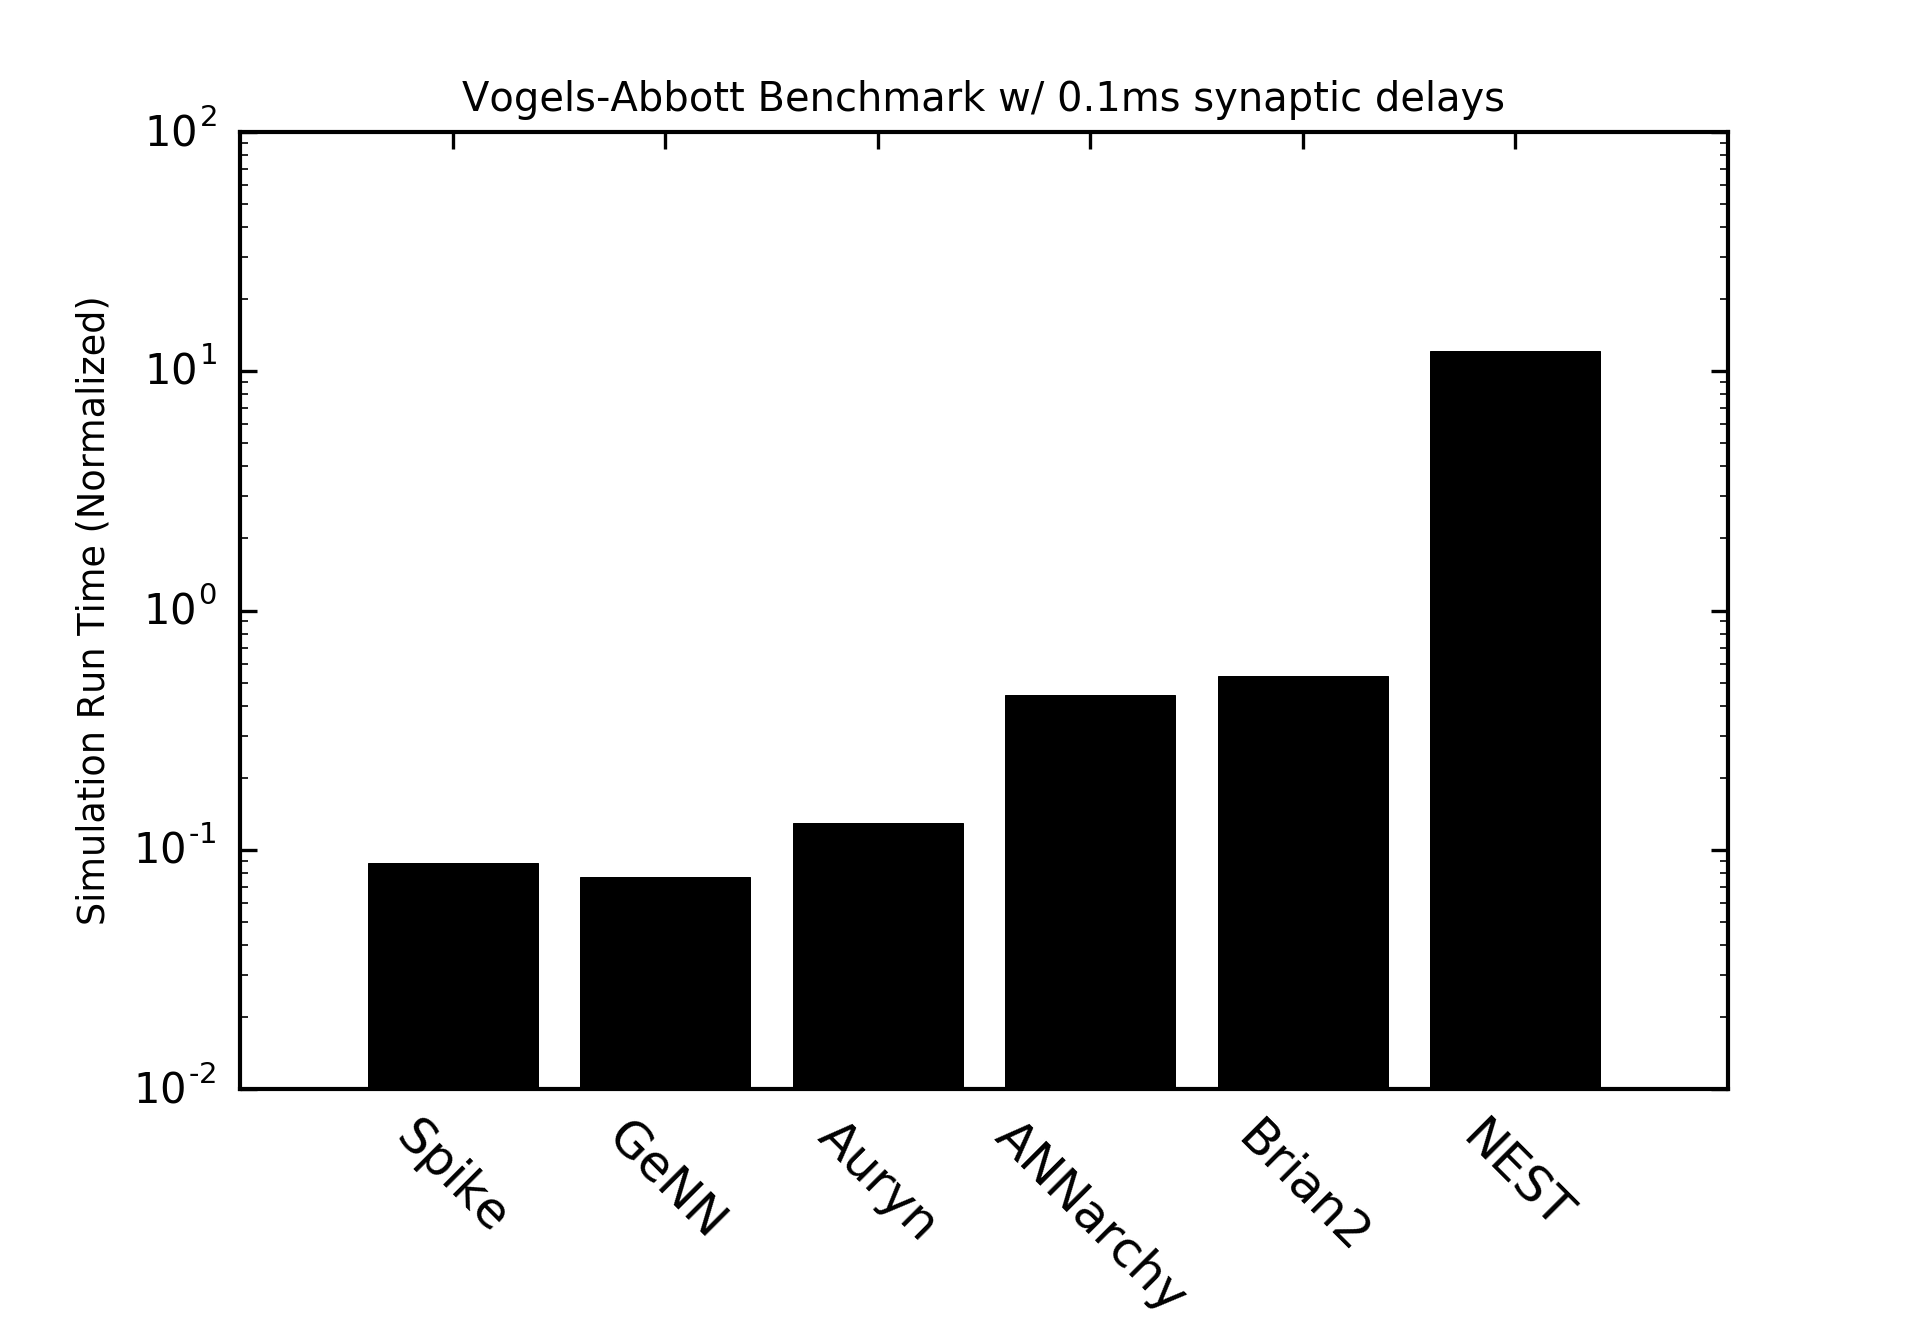
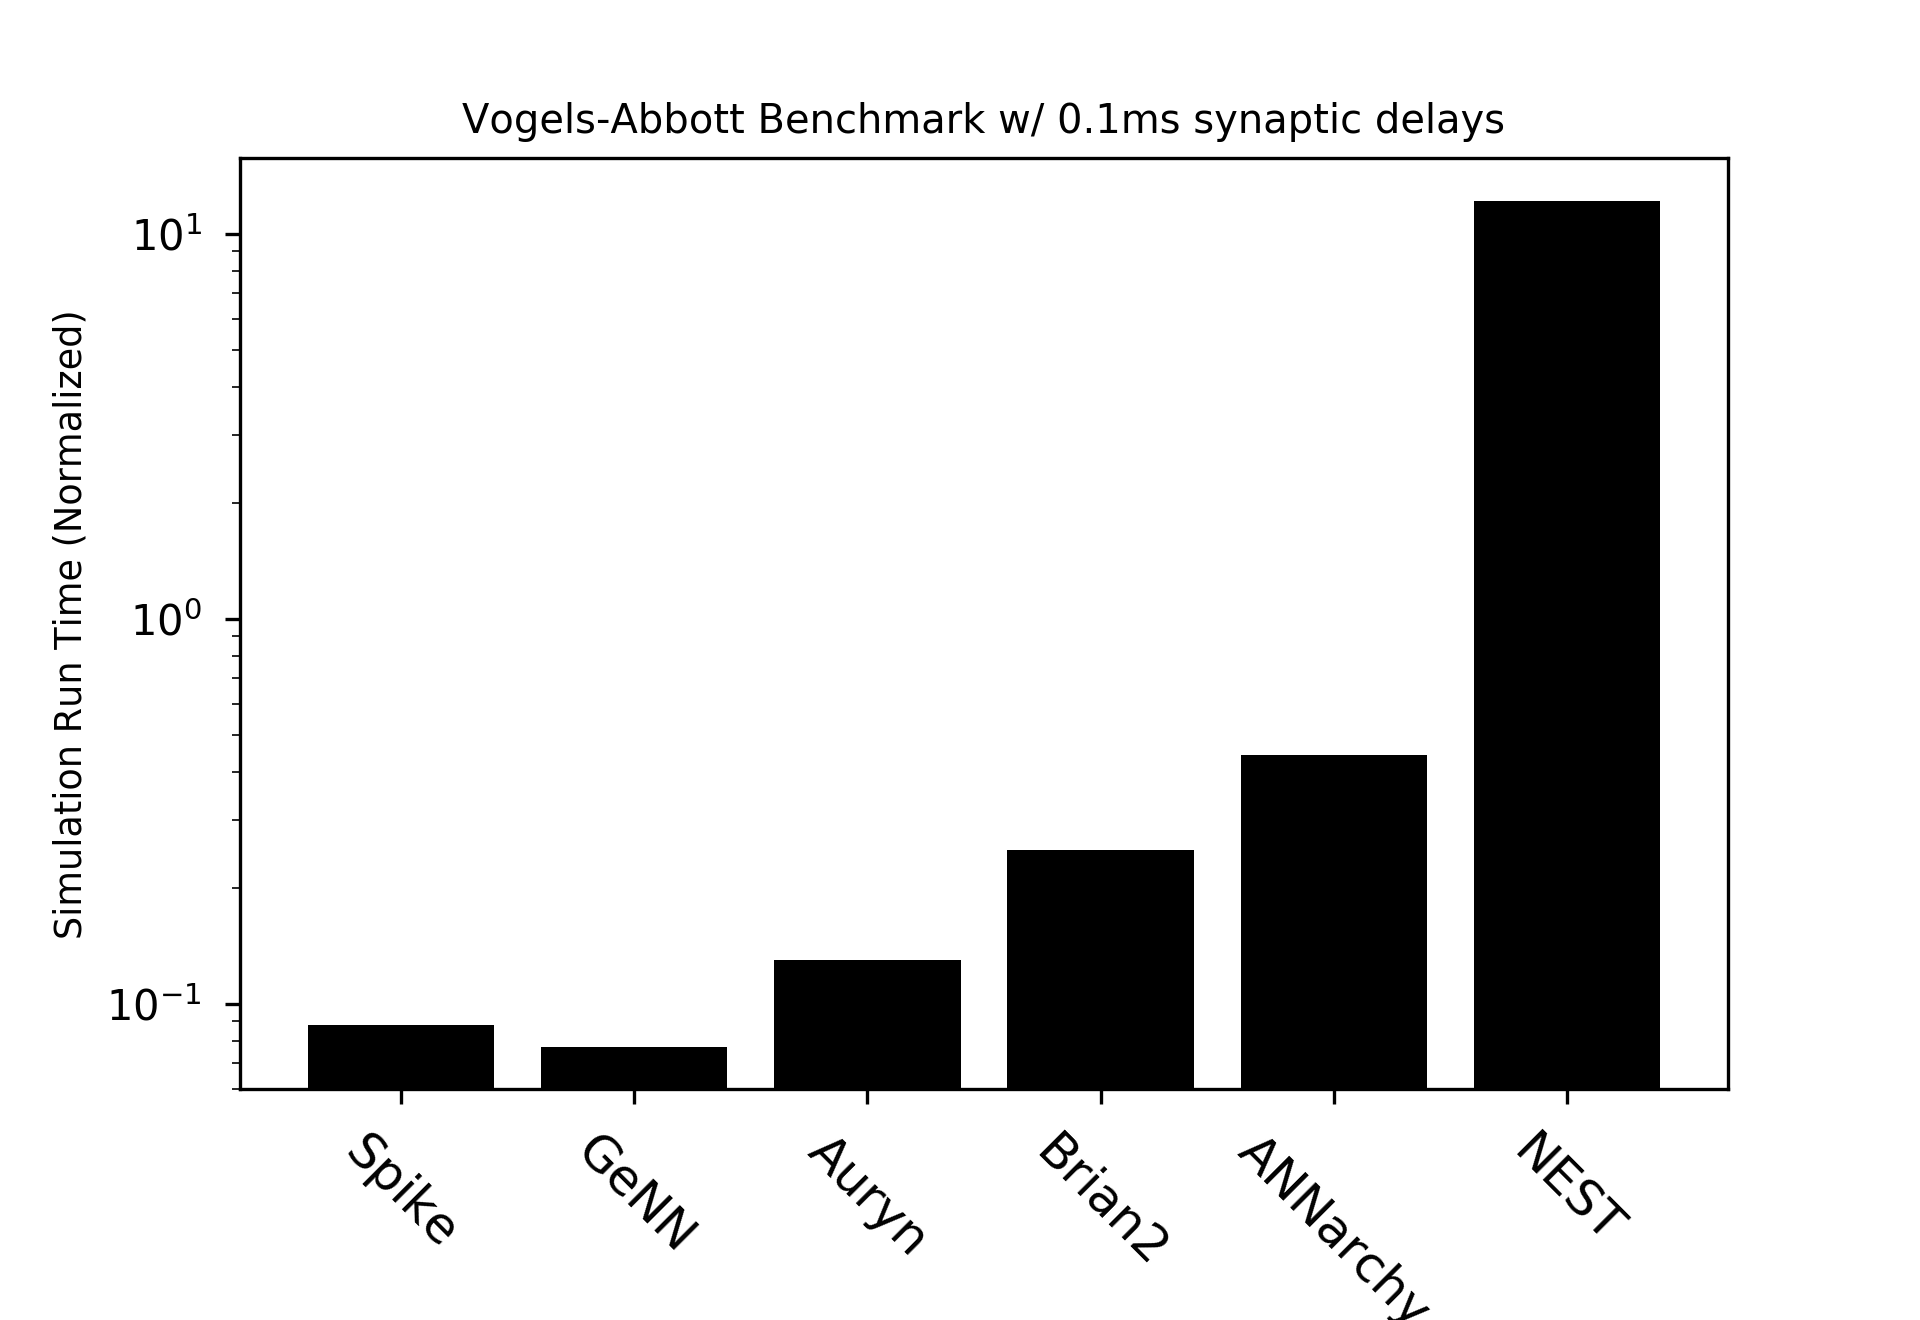
Converting brian to standalone mode for speed. Significant speed increase and reproduction of graphs.

diff --git a/Benchmarks/VogelsAbbott/brian2/COBA.py b/Benchmarks/VogelsAbbott/brian2/COBA.py
@@ -48,7 +48,7 @@ from brian2 import *
 from scipy.io import mmread
 
 # Unable to run standalone mode due to weight loading
-# set_device('cpp_standalone')
+set_device('cpp_standalone')
 
 mytimestep=0.1
 defaultclock.dt = mytimestep*ms
@@ -97,19 +97,19 @@ ie_mat = mmread('../ie.wmat')
 ii_mat = mmread('../ii.wmat')
 
 conn_ee.connect(i=ee_mat.row, j=ee_mat.col)
-conn_ee.w[:,:]=we
+conn_ee.w=we
 conn_ee.delay = num_timesteps_min_delay*mytimestep*ms
 
 conn_ei.connect(i=ei_mat.row, j=ei_mat.col)
-conn_ei.w[:,:]=we
+conn_ei.w=we
 conn_ei.delay = num_timesteps_min_delay*mytimestep*ms
 
 conn_ie.connect(i=ie_mat.row, j=ie_mat.col)
-conn_ie.w[:,:]=wi
+conn_ie.w=wi
 conn_ie.delay = num_timesteps_min_delay*mytimestep*ms
 
 conn_ii.connect(i=ii_mat.row, j=ii_mat.col)
-conn_ii.w[:,:]=wi
+conn_ii.w=wi
 conn_ii.delay = num_timesteps_min_delay*mytimestep*ms
 
 if (num_timesteps_min_delay != num_timesteps_max_delay):
@@ -124,24 +124,19 @@ if (num_timesteps_min_delay != num_timesteps_max_delay):
 #conn_ie.connect(Pi, Pe, scale*array(mmread('../pynn.ie.wmat').todense(),dtype=float))
 #conn_ii.connect(Pi, Pi, scale*array(mmread('../pynn.ii.wmat').todense(),dtype=float))
 
-# Initial run to get rid of any time in setup
-run(0*second)
-
 
 print("Simulating for " + str(simtime) + "s")
 if (fast):
-    starttime = timeit.default_timer()
-    run(simtime * second)
-    totaltime = timeit.default_timer() - starttime
+    run(simtime * second, profile=True)
+    totaltime = device._last_run_time
     f = open("timefile.dat", "w")
     f.write("%f" % totaltime)
     f.close()
     print("Real Time Sim: " + str(totaltime) + "s")
 else:
     s_mon = SpikeMonitor(P)
-    starttime = timeit.default_timer()
-    run(simtime * second)
-    totaltime = timeit.default_timer() - starttime
+    run(simtime * second, profile=True)
+    totaltime = device._last_run_time
     print("Mean Network Firing Rate: " + str(len(s_mon.i) / (4000.0*simtime)) + "Hz")
     print("Real Time Sim: " + str(totaltime) + "s")
     indices = np.asarray(s_mon.i)

diff --git a/Benchmarks/VogelsAbbott/_results/plotting.py b/Benchmarks/VogelsAbbott/_results/plotting.py
@@ -6,8 +6,8 @@ simulators = [
         "Spike",
         "GeNN",
         "Auryn",
-        "ANNarchy",
         "Brian2",
+        "ANNarchy",
         "NEST",
         ]
 
